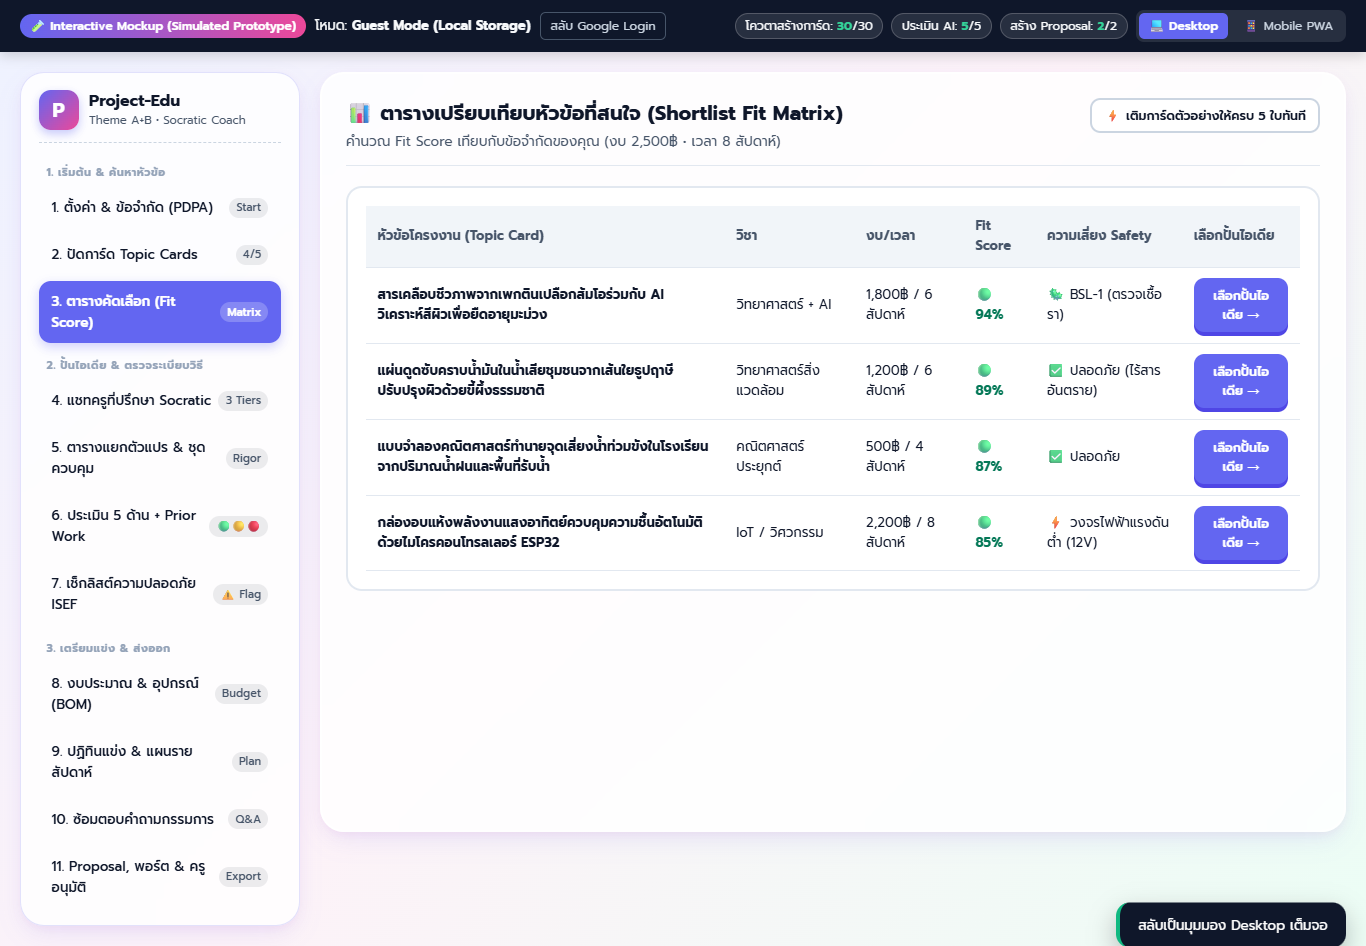
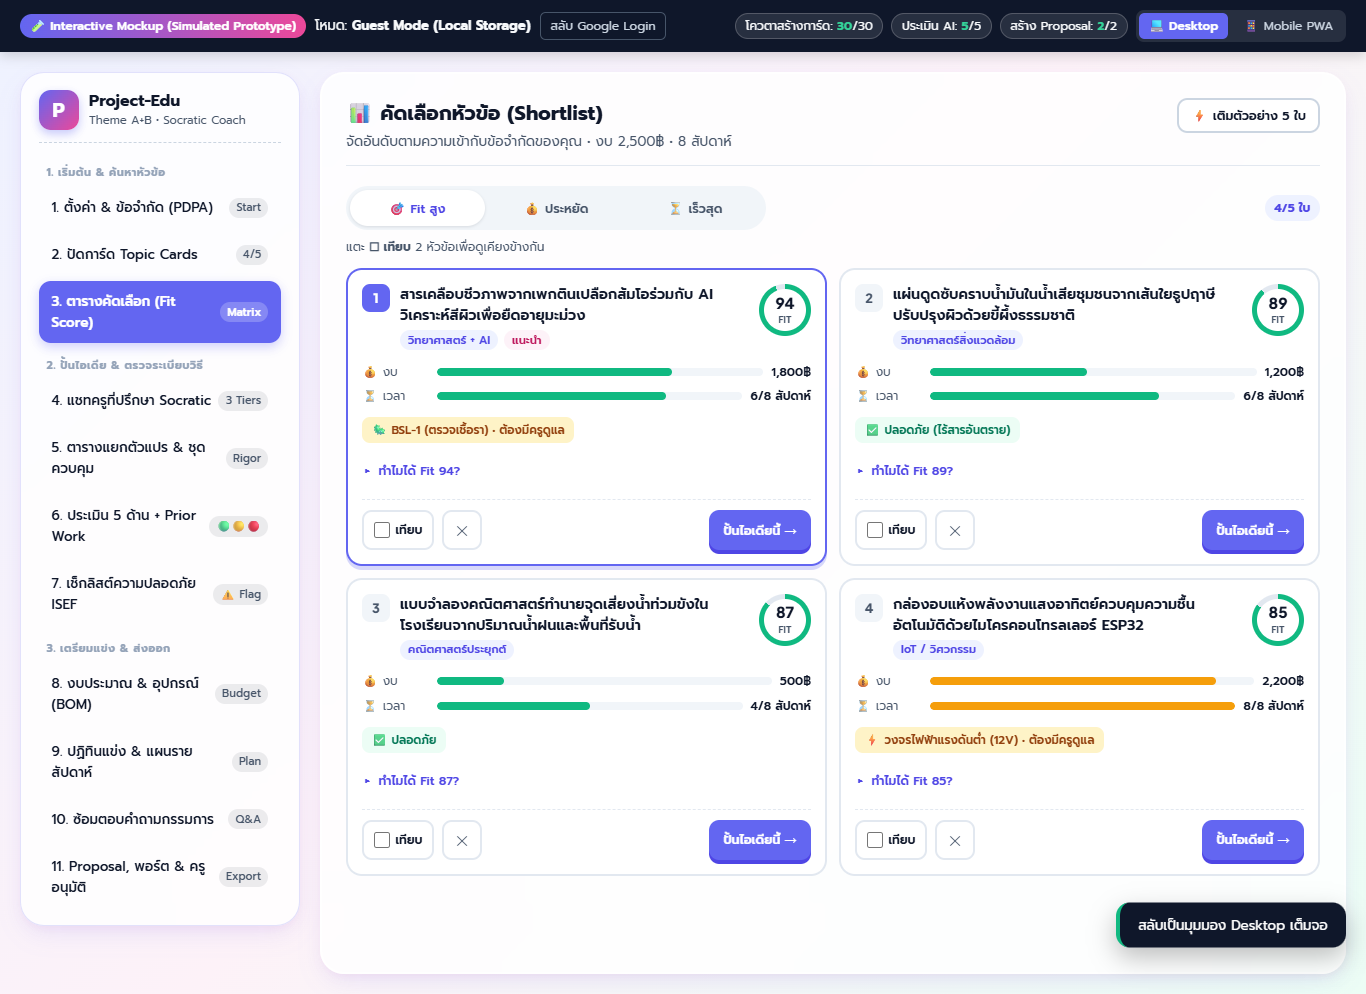
feat(mockup): mobile-first Shortlist — ranked cards, Fit ring, budget/time meters, sort, compare-2 bottom sheet; container-query 2-col on wide

diff --git a/docs/mockups/interactive-prototype.html b/docs/mockups/interactive-prototype.html
@@ -454,6 +454,77 @@
       .brand-header, .nav-group-label { display: none; }
       .nav-btn { width: auto; white-space: nowrap; }
     }
+
+    /* ===== Shortlist (mobile-first ranked cards) ===== */
+    #screen-shortlist { container-type: inline-size; }
+    .sl-toolbar { display: flex; align-items: center; justify-content: space-between; gap: 0.5rem; margin-bottom: 0.5rem; }
+    .sl-seg { flex: 1 1 auto; display: grid; grid-template-columns: repeat(3, 1fr); gap: 0.25rem; padding: 0.25rem; background: #F1F5F9; border-radius: 999px; max-width: 420px; }
+    .sl-seg-btn { min-height: 36px; padding: 0 0.4rem; border: 0; border-radius: 999px; background: transparent; font: inherit; font-size: 0.78rem; font-weight: 600; color: var(--text-sub); cursor: pointer; white-space: nowrap; }
+    .sl-seg-btn.active { background: #fff; color: var(--brand-indigo-dark); box-shadow: 0 1px 3px rgba(15,23,42,0.12); }
+    .sl-count { flex: 0 0 auto; font-size: 0.75rem; font-weight: 700; color: var(--brand-indigo-dark); background: #EEF2FF; padding: 0.25rem 0.6rem; border-radius: 999px; }
+    .sl-hint { font-size: 0.75rem; color: var(--text-sub); margin-bottom: 0.75rem; }
+    .sl-list { list-style: none; display: grid; grid-template-columns: 1fr; gap: 0.75rem; padding-bottom: 4.5rem; }
+    @container (min-width: 720px) { .sl-list { grid-template-columns: 1fr 1fr; } }
+    .sl-item { background: #fff; border: 2px solid #E2E8F0; border-radius: var(--radius-lg); padding: 0.875rem; display: flex; flex-direction: column; gap: 0.75rem; transition: border-color 0.15s, box-shadow 0.15s; }
+    .sl-item.is-top { border-color: var(--brand-indigo); box-shadow: 0 4px 0 rgba(99,102,241,0.25); }
+    .sl-item.is-picked { border-color: var(--brand-pink); }
+    .sl-top { display: grid; grid-template-columns: auto 1fr auto; gap: 0.625rem; align-items: start; }
+    .sl-rank { width: 28px; height: 28px; border-radius: 8px; display: grid; place-items: center; font-family: 'Plus Jakarta Sans', sans-serif; font-weight: 800; font-size: 0.8rem; background: #F1F5F9; color: var(--text-sub); }
+    .sl-item.is-top .sl-rank { background: var(--brand-indigo); color: #fff; }
+    .sl-title { font-size: 0.9rem; font-weight: 600; line-height: 1.45; max-height: calc(1.45em * 3); display: -webkit-box; -webkit-line-clamp: 3; -webkit-box-orient: vertical; overflow: hidden; }
+    .sl-subject { display: inline-block; margin-top: 0.25rem; font-size: 0.7rem; font-weight: 600; color: var(--brand-indigo-dark); background: #EEF2FF; padding: 0.1rem 0.5rem; border-radius: 999px; }
+    .sl-fit { --p: 0; --c: var(--brand-mint); width: 52px; height: 52px; border-radius: 50%; display: grid; place-items: center; position: relative; background: conic-gradient(var(--c) calc(var(--p) * 1%), #E2E8F0 0); }
+    .sl-fit::before { content: ''; position: absolute; inset: 5px; border-radius: 50%; background: #fff; }
+    .sl-fit span { position: relative; text-align: center; line-height: 1; }
+    .sl-fit b { display: block; font-family: 'Plus Jakarta Sans', sans-serif; font-size: 0.95rem; font-weight: 800; color: var(--text-main); }
+    .sl-fit small { font-size: 0.58rem; font-weight: 600; color: var(--text-sub); }
+    .sl-fit.mid { --c: var(--brand-amber); } .sl-fit.low { --c: var(--brand-red); }
+    .sl-meters { display: grid; gap: 0.4rem; }
+    .sl-meter { display: grid; grid-template-columns: 4.2rem 1fr auto; align-items: center; gap: 0.5rem; font-size: 0.74rem; color: var(--text-sub); }
+    .sl-meter .bar { height: 8px; background: #F1F5F9; border-radius: 999px; overflow: hidden; }
+    .sl-meter .bar i { display: block; height: 100%; border-radius: 999px; background: var(--brand-mint); }
+    .sl-meter.warn .bar i { background: var(--brand-amber); } .sl-meter.over .bar i { background: var(--brand-red); }
+    .sl-meter .val { font-weight: 600; color: var(--text-main); white-space: nowrap; }
+    .sl-meter.over .val { color: #B91C1C; }
+    .sl-safety { align-self: flex-start; font-size: 0.72rem; font-weight: 600; padding: 0.25rem 0.6rem; border-radius: 8px; background: #ECFDF5; color: #047857; }
+    .sl-safety.flag { background: #FEF3C7; color: #92400E; }
+    .sl-more summary { font-size: 0.76rem; font-weight: 600; color: var(--brand-indigo-dark); cursor: pointer; min-height: 32px; display: flex; align-items: center; list-style: none; }
+    .sl-more summary::-webkit-details-marker { display: none; }
+    .sl-more summary::before { content: '▸'; margin-right: 0.35rem; transition: transform 0.15s; }
+    .sl-more[open] summary::before { transform: rotate(90deg); }
+    .sl-more p, .sl-more li { font-size: 0.76rem; color: var(--text-sub); line-height: 1.5; }
+    .sl-more ul { margin: 0.35rem 0 0 1rem; }
+    .sl-actions { display: flex; align-items: center; gap: 0.5rem; padding-top: 0.625rem; border-top: 1px dashed #E2E8F0; }
+    .sl-check { display: inline-flex; align-items: center; gap: 0.35rem; min-height: 40px; padding: 0 0.6rem; border: 2px solid #E2E8F0; border-radius: 0.6rem; font-size: 0.76rem; font-weight: 600; cursor: pointer; user-select: none; }
+    .sl-check input { width: 16px; height: 16px; accent-color: var(--brand-pink); }
+    .sl-check:has(input:checked) { border-color: var(--brand-pink); color: #BE185D; background: #FDF2F8; }
+    .sl-check:has(input:disabled) { opacity: 0.45; cursor: not-allowed; }
+    .sl-icon-btn { width: 40px; height: 40px; flex: 0 0 auto; border: 2px solid #E2E8F0; border-radius: 0.6rem; background: #fff; color: var(--text-sub); font-size: 0.9rem; cursor: pointer; }
+    .sl-icon-btn:hover { border-color: var(--brand-red); color: var(--brand-red); }
+    .sl-go { margin-left: auto; min-height: 40px; }
+    .sl-empty { text-align: center; padding: 2rem 1rem; border: 2px dashed #CBD5E1; border-radius: var(--radius-lg); color: var(--text-sub); font-size: 0.85rem; }
+    .sl-empty .big { font-size: 2.25rem; margin-bottom: 0.5rem; }
+    .sl-compare-bar { position: sticky; bottom: 0.75rem; z-index: 5; display: flex; align-items: center; justify-content: space-between; gap: 0.5rem; padding: 0.625rem 0.75rem; background: #0F172A; color: #fff; border-radius: var(--radius-lg); font-size: 0.8rem; box-shadow: 0 10px 25px rgba(15,23,42,0.3); }
+    .sl-compare-bar[hidden], .sl-sheet-backdrop[hidden] { display: none; }
+    .sl-compare-bar .btn-outline { background: transparent; color: #fff; border-color: #475569; }
+    .sl-compare-bar .btn:disabled { opacity: 0.45; cursor: not-allowed; }
+    .sl-sheet-backdrop { position: fixed; inset: 0; z-index: 150; background: rgba(15,23,42,0.45); display: flex; align-items: flex-end; justify-content: center; }
+    .sl-sheet { width: 100%; max-width: 560px; max-height: 85vh; overflow-y: auto; background: #fff; border-radius: 1.25rem 1.25rem 0 0; padding: 0.5rem 1rem 1.25rem; animation: slUp 0.22s ease; }
+    @keyframes slUp { from { transform: translateY(40px); opacity: 0; } to { transform: none; opacity: 1; } }
+    .sl-sheet-grip { width: 40px; height: 4px; border-radius: 999px; background: #CBD5E1; margin: 0.25rem auto 0.5rem; }
+    .sl-sheet-head { display: flex; align-items: center; justify-content: space-between; margin-bottom: 0.75rem; }
+    .sl-sheet-head h3 { font-size: 1rem; }
+    .sl-cmp { display: grid; grid-template-columns: 1fr 1fr; gap: 0.5rem; }
+    .sl-cmp-name { font-size: 0.8rem; font-weight: 600; line-height: 1.35; padding: 0.6rem; border-radius: 0.6rem; background: #F8FAFC; }
+    .sl-cmp-row { grid-column: 1 / -1; font-size: 0.7rem; font-weight: 700; color: var(--text-muted); text-transform: uppercase; letter-spacing: 0.03em; margin-top: 0.5rem; }
+    .sl-cmp-cell { font-size: 0.82rem; padding: 0.5rem 0.6rem; border: 2px solid #E2E8F0; border-radius: 0.6rem; }
+    .sl-cmp-cell.win { border-color: var(--brand-mint); background: #ECFDF5; font-weight: 700; }
+    .sl-cmp-cell.win::after { content: ' ✓ ดีกว่า'; font-size: 0.68rem; color: #047857; }
+    .sl-cmp-actions { position: sticky; bottom: -1.25rem; display: grid; grid-template-columns: 1fr 1fr; gap: 0.5rem; margin: 1rem -1rem -1.25rem; padding: 0.75rem 1rem calc(0.75rem + env(safe-area-inset-bottom)); background: #fff; border-top: 1px solid #E2E8F0; }
+    .sl-sheet-head { position: sticky; top: -0.5rem; background: #fff; padding: 0.25rem 0; z-index: 1; }
+    @media (max-width: 600px) { .demo-bar { position: static !important; } }
+    body:has(#screen-shortlist.active #slCompareBar:not([hidden])) #toast { bottom: 5.5rem; }
+    body:has(#slSheet:not([hidden])) #toast { display: none; }
   </style>
 </head>
 <body>
@@ -666,28 +737,41 @@
         <section class="screen" id="screen-shortlist">
           <div class="screen-header">
             <div>
-              <div class="screen-title">📊 ตารางเปรียบเทียบหัวข้อที่สนใจ (Shortlist Fit Matrix)</div>
-              <div class="screen-sub">คำนวณ Fit Score เทียบกับข้อจำกัดของคุณ (งบ <span id="lblBudget">2,500</span>฿ • เวลา <span id="lblWeeks">8</span> สัปดาห์)</div>
+              <div class="screen-title">📊 คัดเลือกหัวข้อ (Shortlist)</div>
+              <div class="screen-sub">จัดอันดับตามความเข้ากับข้อจำกัดของคุณ • งบ <span id="lblBudget">2,500</span>฿ • <span id="lblWeeks">8</span> สัปดาห์</div>
             </div>
-            <button class="btn btn-outline btn-sm" onclick="fillSampleShortlist()">⚡ เติมการ์ดตัวอย่างให้ครบ 5 ใบทันที</button>
+            <button class="btn btn-outline btn-sm" onclick="fillSampleShortlist()">⚡ เติมตัวอย่าง 5 ใบ</button>
           </div>
 
-          <div class="card" style="overflow-x:auto;">
-            <table class="data-table" id="shortlistTable">
-              <thead>
-                <tr>
-                  <th>หัวข้อโครงงาน (Topic Card)</th>
-                  <th>วิชา</th>
-                  <th>งบ/เวลา</th>
-                  <th>Fit Score</th>
-                  <th>ความเสี่ยง Safety</th>
-                  <th>เลือกปั้นไอเดีย</th>
-                </tr>
-              </thead>
-              <tbody id="shortlistTbody">
-                <!-- Populated by JS -->
-              </tbody>
-            </table>
+          <div class="sl-toolbar">
+            <div class="sl-seg" role="group" aria-label="เรียงลำดับหัวข้อ">
+              <button class="sl-seg-btn active" data-sort="fit" onclick="setShortlistSort('fit')" aria-pressed="true">🎯 Fit สูง</button>
+              <button class="sl-seg-btn" data-sort="budget" onclick="setShortlistSort('budget')" aria-pressed="false">💰 ประหยัด</button>
+              <button class="sl-seg-btn" data-sort="weeks" onclick="setShortlistSort('weeks')" aria-pressed="false">⏳ เร็วสุด</button>
+            </div>
+            <span class="sl-count" id="slCount" aria-live="polite">0/5</span>
+          </div>
+          <p class="sl-hint">แตะ <b>☐ เทียบ</b> 2 หัวข้อเพื่อดูเคียงข้างกัน</p>
+
+          <ol class="sl-list" id="shortlistList" aria-label="หัวข้อที่สนใจ"></ol>
+
+          <div class="sl-compare-bar" id="slCompareBar" hidden>
+            <span>เลือกเทียบแล้ว <b id="slSelN">0</b>/2</span>
+            <div style="display:flex; gap:0.5rem;">
+              <button class="btn btn-outline btn-sm" onclick="clearCompare()">ล้าง</button>
+              <button class="btn btn-primary btn-sm" id="slCompareBtn" onclick="openCompare()" disabled>เทียบ 2 หัวข้อ →</button>
+            </div>
+          </div>
+
+          <div class="sl-sheet-backdrop" id="slSheet" hidden onclick="if(event.target===this) closeCompare()">
+            <div class="sl-sheet" role="dialog" aria-modal="true" aria-labelledby="slSheetTitle">
+              <div class="sl-sheet-grip" aria-hidden="true"></div>
+              <div class="sl-sheet-head">
+                <h3 id="slSheetTitle">เทียบเคียงข้าง</h3>
+                <button class="sl-icon-btn" onclick="closeCompare()" aria-label="ปิดหน้าต่างเปรียบเทียบ">✕</button>
+              </div>
+              <div id="slSheetBody"></div>
+            </div>
           </div>
         </section>
 
@@ -1310,26 +1394,154 @@
       showToast('⚡ เติมการ์ดตัวอย่างครบ 5 ใบใน Shortlist Matrix แล้ว');
     }
 
+    // --- Shortlist helpers ---
+    state.slSort = 'fit';
+    state.slCompare = [];
+
+    function fitLevel(score) { return score >= 80 ? 'hi' : score >= 60 ? 'mid' : 'low'; }
+    function fitLabel(score) { return { hi: 'เข้ากันสูง', mid: 'เข้ากันปานกลาง', low: 'เข้ากันต่ำ' }[fitLevel(score)]; }
+    function meterClass(ratio) { return ratio > 1 ? 'over' : ratio > 0.85 ? 'warn' : ''; }
+    function isSafe(c) { return c.safety.trim().startsWith('✅'); }
+
+    function fitReasons(c) {
+      const p = state.profile, r = [];
+      r.push(c.budget <= p.budget ? `ใช้งบ ${Math.round(c.budget / p.budget * 100)}% ของงบที่มี` : `เกินงบ ${(c.budget - p.budget).toLocaleString()}฿ — ลองหาของทดแทนในโรงเรียน`);
+      r.push(c.weeks <= p.weeks ? `ใช้เวลา ${c.weeks} จาก ${p.weeks} สัปดาห์ เหลือเผื่อ ${p.weeks - c.weeks} สัปดาห์` : `ใช้เวลาเกินแผน ${c.weeks - p.weeks} สัปดาห์`);
+      r.push(isSafe(c) ? 'ไม่ติดธงความปลอดภัย' : 'ติดธงความปลอดภัย — ต้องมีครูดูแล (ไม่บล็อกการเลือก)');
+      r.push(`ระดับความยาก: ${c.difficulty}`);
+      return r;
+    }
+
+    function updateShortlistBadges() {
+      const n = state.shortlist.length;
+      document.getElementById('badgeShortlist').textContent = `${n}/5`;
+      document.getElementById('shortlistCountBtn').textContent = n;
+      document.getElementById('slCount').textContent = `${n}/5 ใบ`;
+    }
+
+    function sortedShortlist() {
+      const key = state.slSort;
+      return [...state.shortlist].sort((a, b) => key === 'fit' ? b.fitScore - a.fitScore : key === 'budget' ? a.budget - b.budget : a.weeks - b.weeks);
+    }
+
     function renderShortlist() {
-      const tbody = document.getElementById('shortlistTbody');
+      updateShortlistBadges();
+      const list = document.getElementById('shortlistList');
+      state.slCompare = state.slCompare.filter(id => state.shortlist.some(c => c.id === id));
       if (state.shortlist.length === 0) {
-        tbody.innerHTML = `<tr><td colspan="6" style="text-align:center; padding:1.5rem; color:var(--text-sub);">ยังไม่มีการ์ดในตะกร้า กดปุ่ม <b>"⚡ เติมการ์ดตัวอย่างให้ครบ 5 ใบทันที"</b> ด้านบน หรือกลับไปปัดการ์ดได้เลย!</td></tr>`;
+        list.innerHTML = `<li class="sl-empty"><div class="big">🃏</div>ยังไม่มีหัวข้อในรายการ<br>ปัดขวา (สนใจ) ที่การ์ดหัวข้อเพื่อเก็บเข้ามา
+          <div style="display:flex; gap:0.5rem; justify-content:center; margin-top:1rem; flex-wrap:wrap;">
+            <button class="btn btn-primary btn-sm" onclick="goScreen('screen-swipe')">ไปปัดการ์ด →</button>
+            <button class="btn btn-outline btn-sm" onclick="fillSampleShortlist()">⚡ เติมตัวอย่าง</button>
+          </div></li>`;
+        renderCompareBar();
         return;
       }
-      tbody.innerHTML = state.shortlist.map(c => `
-        <tr>
-          <td><b>${c.superLiked ? '🌟 ' : ''}${c.title}</b></td>
-          <td>${c.subject}</td>
-          <td>${c.budget.toLocaleString()}฿ / ${c.weeks} สัปดาห์</td>
-          <td><span style="color:#047857; font-weight:700;">🟢 ${c.fitScore}%</span></td>
-          <td>${c.safety}</td>
-          <td>
-            <button class="btn btn-primary btn-sm" onclick="selectTopicForSocratic('${c.title.replace(/'/g, '')}')">
-              เลือกปั้นไอเดีย →
-            </button>
-          </td>
-        </tr>
-      `).join('');
+      const p = state.profile, full = state.slCompare.length >= 2;
+      const topId = [...state.shortlist].sort((a, b) => b.fitScore - a.fitScore)[0].id;
+      list.innerHTML = sortedShortlist().map((c, i) => {
+        const br = p.budget ? c.budget / p.budget : 0, wr = c.weeks / p.weeks;
+        const picked = state.slCompare.includes(c.id), lvl = fitLevel(c.fitScore);
+        return `
+        <li class="sl-item ${c.id === topId ? 'is-top' : ''} ${picked ? 'is-picked' : ''}">
+          <div class="sl-top">
+            <span class="sl-rank" aria-label="อันดับ ${i + 1}">${i + 1}</span>
+            <div>
+              <h3 class="sl-title">${c.superLiked ? '🌟 ' : ''}${c.title}</h3>
+              <span class="sl-subject">${c.subject}</span>${c.id === topId ? ' <span class="sl-subject" style="background:#FDF2F8;color:#BE185D;">แนะนำ</span>' : ''}
+            </div>
+            <div class="sl-fit ${lvl}" style="--p:${c.fitScore}" role="img" aria-label="Fit Score ${c.fitScore} จาก 100, ${fitLabel(c.fitScore)}">
+              <span><b>${c.fitScore}</b><small>FIT</small></span>
+            </div>
+          </div>
+          <div class="sl-meters">
+            <div class="sl-meter ${meterClass(br)}"><span>💰 งบ</span><div class="bar"><i style="width:${Math.min(br, 1) * 100}%"></i></div><span class="val">${c.budget === 0 ? 'ฟรี' : c.budget.toLocaleString() + '฿'}</span></div>
+            <div class="sl-meter ${meterClass(wr)}"><span>⏳ เวลา</span><div class="bar"><i style="width:${Math.min(wr, 1) * 100}%"></i></div><span class="val">${c.weeks}/${p.weeks} สัปดาห์</span></div>
+          </div>
+          <span class="sl-safety ${isSafe(c) ? '' : 'flag'}">${c.safety}${isSafe(c) ? '' : ' • ต้องมีครูดูแล'}</span>
+          <details class="sl-more">
+            <summary>ทำไมได้ Fit ${c.fitScore}?</summary>
+            <p>${c.desc}</p>
+            <ul>${fitReasons(c).map(r => `<li>${r}</li>`).join('')}</ul>
+          </details>
+          <div class="sl-actions">
+            <label class="sl-check"><input type="checkbox" ${picked ? 'checked' : ''} ${!picked && full ? 'disabled' : ''} onchange="toggleCompare(${c.id})"> เทียบ</label>
+            <button class="sl-icon-btn" onclick="removeFromShortlist(${c.id})" aria-label="ลบ ${c.title.slice(0, 30)} ออกจากรายการ">✕</button>
+            <button class="btn btn-primary btn-sm sl-go" onclick="selectTopicById(${c.id})">ปั้นไอเดียนี้ →</button>
+          </div>
+        </li>`;
+      }).join('');
+      renderCompareBar();
+    }
+
+    function setShortlistSort(key) {
+      state.slSort = key;
+      document.querySelectorAll('.sl-seg-btn').forEach(b => {
+        const on = b.dataset.sort === key;
+        b.classList.toggle('active', on);
+        b.setAttribute('aria-pressed', on);
+      });
+      renderShortlist();
+    }
+
+    function removeFromShortlist(id) {
+      const c = state.shortlist.find(x => x.id === id);
+      state.shortlist = state.shortlist.filter(x => x.id !== id);
+      renderShortlist();
+      showToast(`ลบ "${c.title.slice(0, 24)}..." ออกแล้ว`);
+    }
+
+    function toggleCompare(id) {
+      if (state.slCompare.includes(id)) state.slCompare = state.slCompare.filter(x => x !== id);
+      else if (state.slCompare.length < 2) state.slCompare.push(id);
+      renderShortlist();
+    }
+
+    function clearCompare() { state.slCompare = []; renderShortlist(); }
+
+    function renderCompareBar() {
+      const n = state.slCompare.length;
+      document.getElementById('slCompareBar').hidden = n === 0;
+      document.getElementById('slSelN').textContent = n;
+      document.getElementById('slCompareBtn').disabled = n < 2;
+    }
+
+    function openCompare() {
+      const [a, b] = state.slCompare.map(id => state.shortlist.find(c => c.id === id));
+      if (!a || !b) return;
+      const row = (label, va, vb, better) => {
+        const w = better(a, b);
+        return `<div class="sl-cmp-row">${label}</div><div class="sl-cmp-cell ${w === 'a' ? 'win' : ''}">${va}</div><div class="sl-cmp-cell ${w === 'b' ? 'win' : ''}">${vb}</div>`;
+      };
+      const cmp = (f, lowerWins) => (x, y) => f(x) === f(y) ? '' : (lowerWins ? f(x) < f(y) : f(x) > f(y)) ? 'a' : 'b';
+      document.getElementById('slSheetBody').innerHTML = `
+        <div class="sl-cmp">
+          <div class="sl-cmp-name">${a.title}</div><div class="sl-cmp-name">${b.title}</div>
+          ${row('Fit Score', a.fitScore + ' • ' + fitLabel(a.fitScore), b.fitScore + ' • ' + fitLabel(b.fitScore), cmp(c => c.fitScore, false))}
+          ${row('งบประมาณ', a.budget.toLocaleString() + '฿', b.budget.toLocaleString() + '฿', cmp(c => c.budget, true))}
+          ${row('ระยะเวลา', a.weeks + ' สัปดาห์', b.weeks + ' สัปดาห์', cmp(c => c.weeks, true))}
+          ${row('ความปลอดภัย', a.safety, b.safety, cmp(c => isSafe(c) ? 1 : 0, false))}
+          ${row('วิชา', a.subject, b.subject, () => '')}
+          ${row('ความยาก', a.difficulty, b.difficulty, () => '')}
+        </div>
+        <div class="sl-cmp-actions">
+          <button class="btn btn-primary btn-sm" onclick="closeCompare(); selectTopicById(${a.id})">เลือกซ้าย →</button>
+          <button class="btn btn-primary btn-sm" onclick="closeCompare(); selectTopicById(${b.id})">เลือกขวา →</button>
+        </div>`;
+      const sheet = document.getElementById('slSheet');
+      sheet.hidden = false;
+      sheet.querySelector('.sl-sheet').scrollTop = 0;
+      sheet.querySelector('.sl-icon-btn').focus();
+    }
+
+    (function hoistSheet(){ const el = document.getElementById('slSheet'); if (el && el.parentElement !== document.body) document.body.appendChild(el); })();
+
+    function closeCompare() { document.getElementById('slSheet').hidden = true; }
+    document.addEventListener('keydown', e => { if (e.key === 'Escape') closeCompare(); });
+
+    function selectTopicById(id) {
+      const c = state.shortlist.find(x => x.id === id);
+      if (c) selectTopicForSocratic(c.title);
     }
 
     function selectTopicForSocratic(title) {
